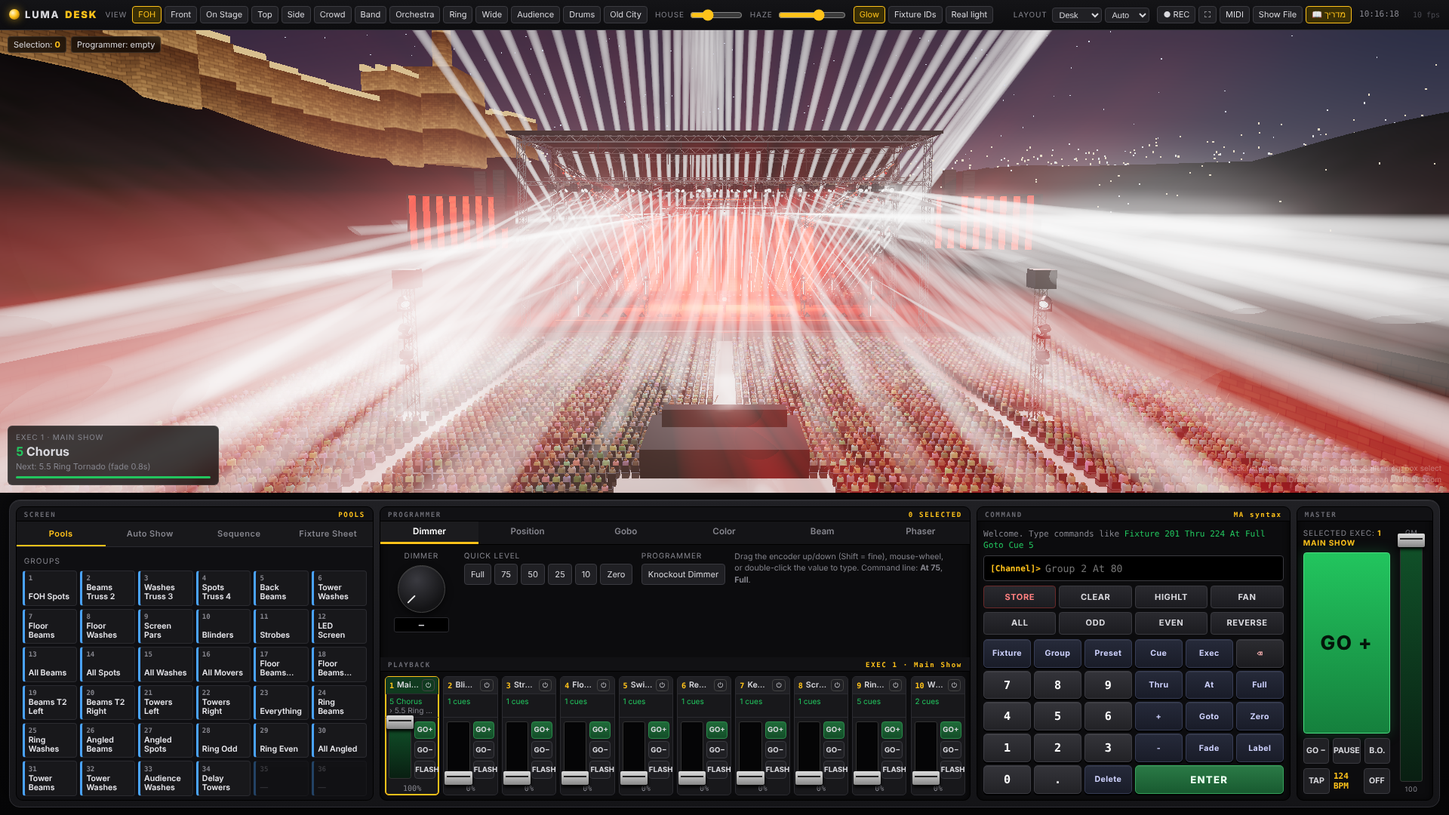
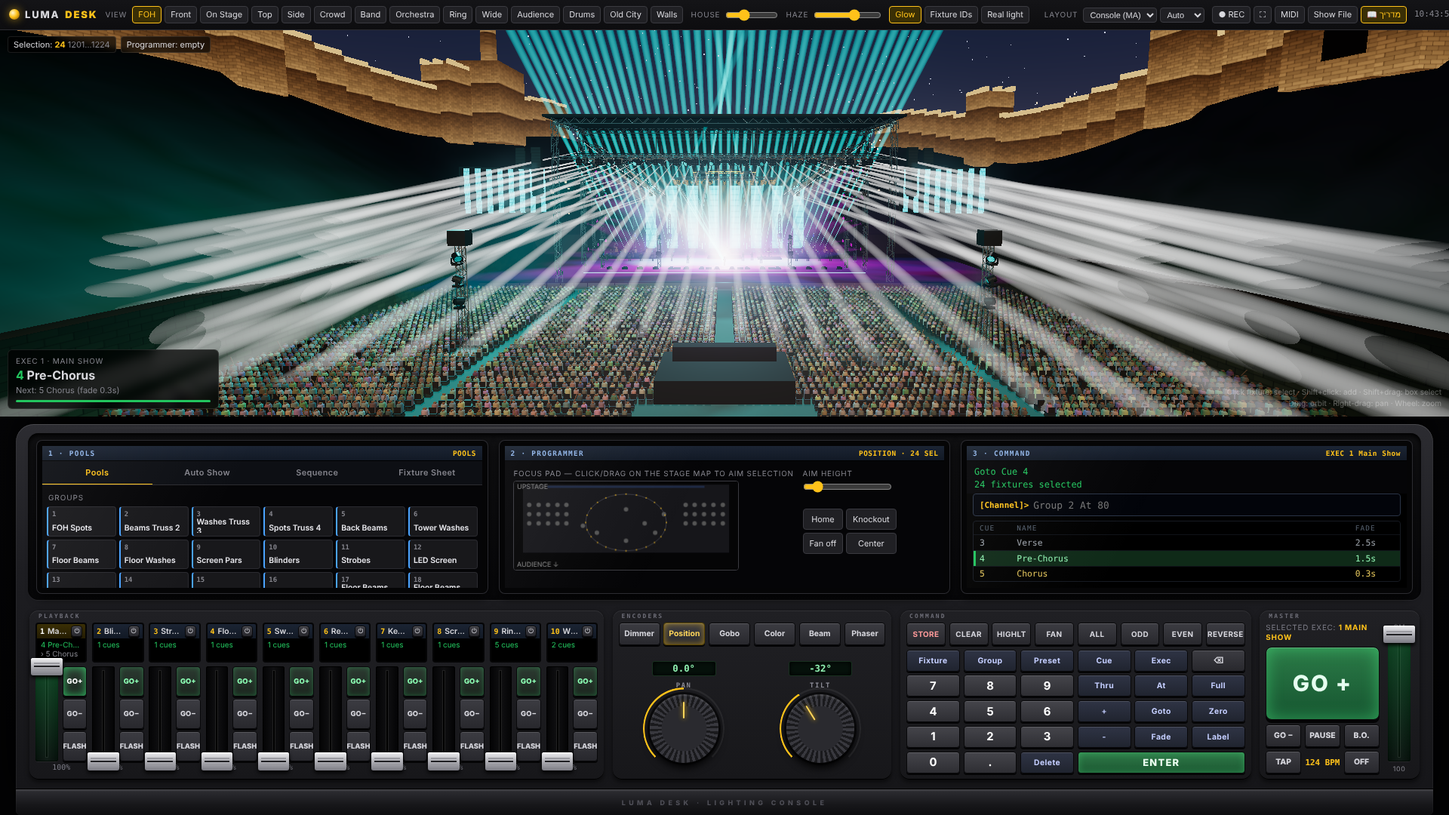
grandMA-style Console layout, Old City walls on both sides
- New default 'Console (MA)' layout: 3-screen bar + physical surface (faders, big encoders, MA keypad, GO/GM), scalable
- Old City walls on the right ridge too, with a gatehouse and a Mount Zion silhouette; 'Walls' camera view
- README hero updated to the console layout

Claude-Session: https://claude.ai/code/session_01XyVV7tLxsAxH9MvZkjuWSr

diff --git a/index.html b/index.html
@@ -213,7 +213,7 @@ canvas.pad{border:1px solid var(--line2);border-radius:4px;cursor:crosshair;touc
 
 
 /* ================= DESK LAYOUT: stage on top, one compact console below ================= */
-body.desk #app{grid-template-rows:40px minmax(0,1fr) auto}
+body.desk #app{grid-template-rows:40px minmax(0,1fr) auto;grid-template-columns:minmax(0,1fr);width:100vw}
 body.desk #main{grid-template-columns:minmax(0,1fr)}
 body.desk #viewer{border-right:0}
 body.desk #desk,body.desk #app>#enc{display:none}
@@ -261,6 +261,103 @@ body.desk .mRow button{padding:9px 0}
 @media (max-width:2100px){#showName{display:none}}
 @media (max-width:1700px){#top .tbg label{display:none}}
 #layoutBox select{background:var(--p3);color:var(--txt);border:1px solid var(--line2);border-radius:4px;padding:2px 4px;font-size:11px}
+
+/* ================= MA CONSOLE LAYOUT: a physical grandMA-style desk under the stage ================= */
+#maConsole{display:none}
+body.ma #app{grid-template-rows:40px minmax(0,1fr) auto;grid-template-columns:minmax(0,1fr);width:100vw}
+body.ma #maConsole{min-width:0;max-width:100vw}
+body.ma .keypad{grid-auto-rows:1fr;align-content:stretch}
+body.ma #kySlot .keys{flex:0 0 auto}
+body.ma #main{grid-template-columns:minmax(0,1fr)}
+body.ma #viewer{border-right:0}
+body.ma #desk,body.ma #app>#enc,body.ma #console{display:none}
+body.ma #maConsole{display:block;background:radial-gradient(120% 140% at 50% 0%,#0a0a0d 0%,#030304 70%);padding:10px 10px 0;overflow:hidden}
+.maDesk{zoom:var(--mz,1);width:1900px;margin:0 auto;position:relative;padding:12px 16px 0;border-radius:24px 24px 6px 6px;
+  background:linear-gradient(#2c2c31 0%,#1d1d21 38%,#151518 100%);box-shadow:0 -24px 60px #000,inset 0 1px 0 #ffffff22,inset 1px 0 0 #ffffff0d,inset -1px 0 0 #ffffff0d}
+.maDesk::before{content:'';position:absolute;left:24px;right:24px;top:4px;height:2px;border-radius:2px;background:linear-gradient(90deg,transparent,#ffffff26,transparent)}
+.maScreens{display:grid;grid-template-columns:repeat(3,minmax(0,1fr));gap:16px;height:224px;padding:10px 12px;border-radius:14px;
+  background:linear-gradient(#111113,#08080a);box-shadow:inset 0 3px 8px #000,0 1px 0 #ffffff12}
+.disp{position:relative;display:flex;flex-direction:column;min-width:0;min-height:0;background:#000;border:8px solid #050506;border-radius:7px;
+  box-shadow:0 0 0 1px #2c2c31,0 6px 14px #000c;overflow:hidden}
+.disp::after{content:'';position:absolute;inset:0;pointer-events:none;background:linear-gradient(118deg,rgba(255,255,255,.055) 0%,rgba(255,255,255,.015) 28%,transparent 42%)}
+.dhead{display:flex;justify-content:space-between;align-items:center;height:20px;padding:0 8px;background:linear-gradient(#1b2433,#121925);border-bottom:1px solid #000;font:700 9.5px var(--mono);letter-spacing:.14em;color:#8fb3e6;flex:0 0 auto}
+.dhead b{color:var(--acc);font-weight:700;letter-spacing:.06em}
+.dslot{flex:1;min-height:0;display:flex;flex-direction:column;overflow:hidden}
+body.ma #side{flex:1;min-height:0;background:#050507}
+body.ma .tabs{background:#0d0f14}
+body.ma .pane{padding:6px}
+body.ma .slot{height:40px}
+body.ma #encExtra{padding:10px 12px;gap:12px;overflow:auto;flex-wrap:wrap;align-content:flex-start;background:#050507;flex:1}
+body.ma #cmdFb{height:auto;flex:0 0 auto;padding:6px 10px 4px;font-size:12px;line-height:17px;color:#9aa0a8;background:#050507}
+body.ma .cmdrow{margin:0 8px;height:30px;border-color:#2a3446;background:#02040a}
+#miniSeq{flex:1;min-height:0;overflow:hidden;margin:6px 8px 8px;border:1px solid #161a22;border-radius:4px;font:11.5px var(--mono)}
+#miniSeq .r{display:grid;grid-template-columns:44px 1fr 52px;gap:6px;padding:3px 8px;border-bottom:1px solid #0f1218;color:#9aa0a8}
+#miniSeq .r.cur{background:#0f2a18;color:#8ff0b0;box-shadow:inset 3px 0 0 var(--go)}
+#miniSeq .r.nx{color:#e3c45a}
+#miniSeq .h{color:#55606e;font-size:9.5px;letter-spacing:.12em}
+.maSurface{display:grid;grid-template-columns:770px minmax(0,1fr) 470px 214px;gap:12px;height:250px;padding:14px 2px 10px}
+.srf{position:relative;display:flex;flex-direction:column;min-width:0;min-height:0;padding:16px 8px 8px;border-radius:12px;
+  background:linear-gradient(#202024,#17171a);box-shadow:inset 0 1px 0 #ffffff14,inset 0 -1px 0 #000,0 3px 6px #0009}
+.slab{position:absolute;left:12px;top:3px;font:700 8px var(--mono);letter-spacing:.28em;color:#6e6e78}
+/* hardware keys */
+body.ma .keys button,body.ma .keypad button,body.ma #featTabs button,body.ma .ex-btns button,body.ma .mRow button,body.ma .ex-off{
+  background:linear-gradient(#3c3c42,#28282d);border:1px solid #08080a;border-radius:4px;color:#d6d6dd;
+  box-shadow:0 2px 0 #040405,inset 0 1px 0 rgba(255,255,255,.15);font-family:Inter,sans-serif}
+body.ma .keys button:active,body.ma .keypad button:active,body.ma .ex-btns button:active,body.ma .mRow button:active{transform:translateY(1px);box-shadow:0 1px 0 #040405,inset 0 1px 0 rgba(255,255,255,.1)}
+body.ma .keys button.on,body.ma #featTabs button.on{color:#ffd65a;box-shadow:0 2px 0 #040405,inset 0 0 10px rgba(255,194,26,.55),inset 0 1px 0 rgba(255,255,255,.18);border-color:#5a4500}
+body.ma .keys .store{color:#ff9a9a}
+body.ma .keys .store.on{background:linear-gradient(#6a1414,#3e0a0a);color:#fff;box-shadow:0 2px 0 #040405,inset 0 0 12px rgba(255,64,64,.7)}
+body.ma .keypad .n{background:linear-gradient(#45454b,#2e2e33);color:#fff}
+body.ma .keypad .w{background:linear-gradient(#2f3445,#20242f);color:#c4ceff}
+body.ma .keypad .en{background:linear-gradient(#2f7c49,#1b5631);color:#eafff0;box-shadow:0 2px 0 #040405,inset 0 0 10px rgba(80,255,140,.35)}
+body.ma .keys{display:grid;grid-template-columns:repeat(8,1fr);gap:5px;margin-bottom:6px}
+body.ma .keys button{height:30px;font-size:10px;font-weight:700;letter-spacing:.04em;padding:0}
+body.ma .keypad{grid-template-columns:repeat(6,1fr);gap:5px;flex:1}
+body.ma .keypad button{min-height:0}
+/* feature keys + big encoders */
+body.ma #featTabs{display:grid;grid-template-columns:repeat(6,1fr);gap:5px;border:0;background:none;margin-bottom:8px}
+body.ma #featTabs button{height:30px;padding:0;text-align:center;font-size:10.5px;font-weight:700;border-left:1px solid #08080a}
+body.ma #featTabs button.has::after{right:4px;top:4px;margin:0;width:5px;height:5px}
+body.ma #encoders{flex:1;display:flex;justify-content:space-around;align-items:center;gap:8px}
+body.ma .encoder{width:auto;gap:7px}
+body.ma .encoder .val{order:-1;background:#06110b;border:1px solid #18301f;color:#8ff0b0;font-size:12.5px;min-width:86px;box-shadow:inset 0 0 8px #000}
+body.ma .encoder .val.p{color:#ff6b6b;border-color:#4a1616;background:#140606}
+body.ma .encoder .lb{font:700 9px var(--mono);letter-spacing:.18em;color:#8a8a94}
+body.ma .knob{width:92px;height:92px;border:0;background:radial-gradient(circle at 50% 50%,#2a2a2f 0 46%,transparent 47%),repeating-conic-gradient(#38383e 0 5deg,#1a1a1d 5deg 10deg);
+  box-shadow:0 6px 12px #000,0 0 0 3px #0c0c0e,inset 0 2px 2px #ffffff22}
+body.ma .knob::before{inset:-9px;-webkit-mask:radial-gradient(circle,transparent 52px,#000 53px);mask:radial-gradient(circle,transparent 52px,#000 53px)}
+body.ma .knob .ind{top:10px;height:22px;transform-origin:1px 36px;background:#ffd65a;box-shadow:0 0 6px #ffc21a}
+/* executors: small displays above real faders */
+body.ma #execs{flex:1;display:grid;grid-template-columns:repeat(10,minmax(0,1fr));gap:7px;padding:0;min-height:0}
+body.ma .ex{background:none;border:0;border-radius:0;overflow:visible}
+body.ma .ex-top,body.ma .ex-cue{background:#000;border:0}
+body.ma .ex-top{border:3px solid #050506;border-bottom:0;border-radius:4px 4px 0 0;padding:2px 4px;background:linear-gradient(#1b2433,#121925)}
+body.ma .ex-cue{border:3px solid #050506;border-top:0;border-radius:0 0 4px 4px;margin-bottom:6px;height:32px}
+body.ma .ex.sel .ex-top{background:linear-gradient(#3a2f05,#241c02)}
+body.ma .ex.sel{box-shadow:none}
+body.ma .ex.sel .ex-num{color:#fff}
+body.ma .ex-off{padding:0 3px;line-height:13px;font-size:9px}
+body.ma .ex-mid{padding:0;gap:6px}
+body.ma .ex-btns button{font-size:9.5px;font-weight:800}
+body.ma .ex-btns .b-go{color:#8dffb5;background:linear-gradient(#2c3a31,#1c261f);box-shadow:0 2px 0 #040405,inset 0 0 8px rgba(60,255,130,.28)}
+body.ma .ex.on .ex-btns .b-go{box-shadow:0 2px 0 #040405,inset 0 0 12px rgba(60,255,130,.7);color:#fff}
+body.ma .ex-btns .b-flash.on{background:#fff;color:#000}
+body.ma .fader{width:30px;border:0;border-radius:3px;background:linear-gradient(90deg,#030304,#101012 50%,#030304);box-shadow:inset 0 0 0 1px #000,0 1px 0 #ffffff10}
+body.ma .fader::before{content:'';position:absolute;left:50%;top:6px;bottom:6px;width:2px;margin-left:-1px;background:#000;box-shadow:0 0 0 1px #222}
+body.ma .fader .ff{background:linear-gradient(#22c55e55,#22c55e10);border-radius:3px}
+body.ma .fader .cap{left:-6px;right:-6px;height:24px;margin-bottom:-12px;border-radius:3px;background:linear-gradient(#f2f2f4,#b4b4ba 45%,#7c7c84);box-shadow:0 3px 5px #000,inset 0 1px 0 #fff}
+body.ma .fader .cap::after{left:4px;right:4px;top:11px;height:2px;background:#202024;box-shadow:0 -4px 0 #9a9aa0,0 4px 0 #9a9aa0}
+body.ma .ex-lvl{color:#7c7c86}
+/* master */
+body.ma #master{flex:1;display:grid;grid-template-columns:1fr 38px;gap:8px;padding:0;border:0}
+body.ma .mGo .sx{color:#7c7c86}
+body.ma #goBig{border-radius:8px;font-size:30px;border:1px solid #0a0a0b;background:linear-gradient(#2b7a47,#165530);color:#e6fff0;box-shadow:0 4px 0 #040405,inset 0 0 22px rgba(80,255,140,.45),inset 0 1px 0 rgba(255,255,255,.25)}
+body.ma #goBig:active{transform:translateY(2px);box-shadow:0 2px 0 #040405,inset 0 0 26px rgba(80,255,140,.6)}
+body.ma .mRow button{padding:7px 0;font-weight:800}
+body.ma #boBtn.on{background:linear-gradient(#6a1414,#3e0a0a);color:#fff}
+body.ma .gm .fader{width:30px}
+.maRest{height:34px;margin:4px -16px 0;border-radius:0 0 6px 6px;background:linear-gradient(#2e2e33,#17171a 60%,#0d0d0f);box-shadow:inset 0 2px 2px #ffffff1c,0 -1px 0 #000;
+  display:flex;align-items:center;justify-content:center;font:800 9px Inter,sans-serif;letter-spacing:.5em;color:#4e4e56}
 /* guide */
 #guide{position:fixed;inset:0;background:#000d;z-index:70;display:none;align-items:center;justify-content:center;backdrop-filter:blur(3px)}
 #guide.show{display:flex}
@@ -330,13 +427,13 @@ body.desk .mRow button{padding:9px 0}
     <div class="brand"><i></i>LUMA<b>DESK</b></div>
     <div class="showname" id="showName">Demo Show — Sultan's Pool, Jerusalem</div>
     <div class="tbg"><label>View</label>
-      <button data-view="foh" class="on">FOH</button><button data-view="front">Front</button><button data-view="stage">On Stage</button><button data-view="top">Top</button><button data-view="side">Side</button><button data-view="crowd">Crowd</button><button data-view="band">Band</button><button data-view="orch">Orchestra</button><button data-view="ring">Ring</button><button data-view="wide">Wide</button><button data-view="aud">Audience</button><button data-view="drums">Drums</button><button data-view="valley">Old City</button>
+      <button data-view="foh" class="on">FOH</button><button data-view="front">Front</button><button data-view="stage">On Stage</button><button data-view="top">Top</button><button data-view="side">Side</button><button data-view="crowd">Crowd</button><button data-view="band">Band</button><button data-view="orch">Orchestra</button><button data-view="ring">Ring</button><button data-view="wide">Wide</button><button data-view="aud">Audience</button><button data-view="drums">Drums</button><button data-view="valley">Old City</button><button data-view="walls">Walls</button>
     </div>
     <div class="tbg"><label>House</label><input type="range" id="house" min="0" max="100" value="30" style="width:70px" title="Audience house lights"></div>
     <div class="tbg"><label>Haze</label><input type="range" id="haze" min="0" max="100" value="62" style="width:90px"></div>
     <div class="tbg"><button id="glowBtn" class="on">Glow</button><button id="idsBtn">Fixture IDs</button><button id="realBtn" class="on" title="Real spot lights & shadows on performers">Real light</button></div>
     <div class="spacer"></div>
-    <div class="tbg" id="layoutBox"><label>Layout</label><select id="layoutSel" title="פריסת מסך"><option value="desk">Desk</option><option value="classic">Classic</option></select><select id="deskZoom" title="גודל הקונסולה"><option value="auto">Auto</option><option value=".85">85%</option><option value="1">100%</option><option value="1.15">115%</option><option value="1.3">130%</option><option value="1.5">150%</option></select></div>
+    <div class="tbg" id="layoutBox"><label>Layout</label><select id="layoutSel" title="פריסת מסך"><option value="ma">Console (MA)</option><option value="desk">Desk</option><option value="classic">Classic</option></select><select id="deskZoom" title="גודל הקונסולה"><option value="auto">Auto</option><option value=".85">85%</option><option value="1">100%</option><option value="1.15">115%</option><option value="1.3">130%</option><option value="1.5">150%</option></select></div>
     <div class="tbg"><button id="recBtn" title="הקלטת וידאו של התצוגה (.webm)">● REC</button><button id="fsBtn" title="מסך מלא (F)">⛶</button><button id="installBtn" style="display:none">⬇ התקן אפליקציה</button><button id="midiBtn">MIDI</button><button id="fileBtn">Show File</button><button id="helpBtn" class="on">📖 מדריך</button></div>
     <div id="clock"></div><div id="fps"></div>
   </header>
@@ -394,6 +491,20 @@ body.desk .mRow button{padding:9px 0}
       <div class="cwing" id="cwCmd"><div class="clabel"><span>COMMAND</span><b>MA syntax</b></div></div>
       <div class="cwing" id="cwMaster"><div class="clabel"><span>MASTER</span></div></div>
     </div>
+  </div></section>
+  <section id="maConsole"><div class="maDesk" id="maBody">
+    <div class="maScreens">
+      <div class="disp"><div class="dhead"><span>1 · POOLS</span><b id="d1info"></b></div><div class="dslot" id="d1s"></div></div>
+      <div class="disp"><div class="dhead"><span>2 · PROGRAMMER</span><b id="d2info"></b></div><div class="dslot" id="d2s"></div></div>
+      <div class="disp"><div class="dhead"><span>3 · COMMAND</span><b id="d3info"></b></div><div class="dslot" id="d3s"><div id="miniSeq"></div></div></div>
+    </div>
+    <div class="maSurface">
+      <div class="srf"><span class="slab">PLAYBACK</span><div id="pbSlot" style="flex:1;display:flex;min-height:0"></div></div>
+      <div class="srf"><span class="slab">ENCODERS</span><div id="ftSlot"></div><div id="ecSlot" style="flex:1;display:flex;min-height:0"></div></div>
+      <div class="srf"><span class="slab">COMMAND</span><div id="kySlot" style="flex:1;display:flex;flex-direction:column;min-height:0"></div></div>
+      <div class="srf"><span class="slab">MASTER</span><div id="msSlot" style="flex:1;display:flex;min-height:0"></div></div>
+    </div>
+    <div class="maRest">LUMA DESK · LIGHTING CONSOLE</div>
   </div></section>
   <footer id="desk">
     <div id="cmdArea">
@@ -510,7 +621,7 @@ function terrH(x, z) {
   const dx = Math.max(Math.abs(x) - VEN.X - 2, 0), dz = Math.max(z - zt, 0) + Math.max(-40 - z, 0) * .8, d = Math.hypot(dx, dz);
   if (d <= 0) return base;
   const nz = (Math.sin(x * .061) + Math.sin(z * .083 + 1.3) + Math.sin((x + z) * .047 + 2)) * 1.6 * Math.min(d / 12, 1);
-  return base + Math.min(d * .55, 24) + (x < 0 ? Math.min(dx * .22, 12) : 0) + nz;
+  return base + Math.min(d * .55, 24) + (x < 0 ? Math.min(dx * .22, 12) : Math.min(dx * .16, 8)) + nz;
 }
 const RING = { x: 0, y: 17, z: -9, R: 9, r2: 5.2, y2: 18.2 };
 for (let i = 0; i < 24; i++) { const a = i / 24 * Math.PI * 2, sa = Math.sin(a), ca = Math.cos(a);
@@ -608,7 +719,7 @@ controls.enableDamping = true; controls.dampingFactor = .08; controls.maxPolarAn
 const VIEWS = {
   foh: { p: [0, 16, 74], t: [0, 9, -8] }, front: { p: [0, 6, 28], t: [0, 10, -10] }, stage: { p: [4, DECK + 1.8, -5], t: [-2, 6, 30] },
   top: { p: [0, 86, -9], t: [0, 0, -9.1] }, side: { p: [62, 13, -8], t: [0, 9, -8] }, crowd: { p: [-5, 2.3, 16], t: [0, 13, -10] },
-  band: { p: [2.5, 5, 10], t: [0, 3, -9] }, ring: { p: [0, DECK + 1.7, 3], t: [0, 17, -9.5] }, wide: { p: [-30, 40, 120], t: [0, 6, -5] }, aud: { p: [0, 15, 1], t: [0, 2, 46] }, drums: { p: [2.2, DECK + 3.2, -5.5], t: [0, DECK + 1, -12.4] }, valley: { p: [55, 34, 98], t: [-30, 8, -10] }, orch: { p: [0, 9, 2], t: [-15.5, 2.4, -12] },
+  band: { p: [2.5, 5, 10], t: [0, 3, -9] }, ring: { p: [0, DECK + 1.7, 3], t: [0, 17, -9.5] }, walls: { p: [0, 30, 96], t: [0, 14, -20] }, wide: { p: [-30, 40, 120], t: [0, 6, -5] }, aud: { p: [0, 15, 1], t: [0, 2, 46] }, drums: { p: [2.2, DECK + 3.2, -5.5], t: [0, DECK + 1, -12.4] }, valley: { p: [55, 34, 98], t: [-30, 8, -10] }, orch: { p: [0, 9, 2], t: [-15.5, 2.4, -12] },
 };
 function setView(v, instant) {
   const V = VIEWS[v]; if (!V) return;
@@ -690,8 +801,9 @@ const box = (w, h, d, mat, x, y, z) => { const m = new THREE.Mesh(new THREE.BoxG
     G.setAttribute('color', new THREE.BufferAttribute(col, 3)); G.computeVertexNormals();
     scene.add(new THREE.Mesh(G, new THREE.MeshStandardMaterial({ vertexColors: true, roughness: 1, flatShading: true }))); }
   // Old City walls along the ridge, with towers, crenellations and the Tower of David citadel — floodlit warm
-  { const pts = [[-58, -95], [-74, -50], [-82, -5], [-84, 40], [-74, 85], [-48, 118]].map(([x, z]) => new V3(x, terrH(x, z), z));
-    const crenG = new THREE.BoxGeometry(.9, 1.3, 2.3), crenM = new THREE.MeshBasicMaterial({ color: 0xc9a46c }), crenXf = [];
+  { const crenG = new THREE.BoxGeometry(.9, 1.3, 2.3), crenM = new THREE.MeshBasicMaterial({ color: 0xc9a46c }), crenXf = [];
+    const WALLS = [[[-58, -95], [-74, -50], [-82, -5], [-84, 40], [-74, 85], [-48, 118]], [[56, -95], [72, -52], [82, -8], [85, 38], [76, 84], [52, 118]]];
+    for (const raw of WALLS) { const pts = raw.map(([x, z]) => new V3(x, terrH(x, z), z));
     for (let i = 0; i < pts.length - 1; i++) { const A = pts[i], B = pts[i + 1], L = Math.hypot(B.x - A.x, B.z - A.z), ang = Math.atan2(B.x - A.x, B.z - A.z);
       const n = Math.ceil(L / 6);
       for (let k = 0; k < n; k++) { const t0 = k / n, t1 = (k + 1) / n, x = lerp(A.x, B.x, (t0 + t1) / 2), z = lerp(A.z, B.z, (t0 + t1) / 2), base = Math.min(terrH(lerp(A.x, B.x, t0), lerp(A.z, B.z, t0)), terrH(lerp(A.x, B.x, t1), lerp(A.z, B.z, t1))) - 3, H = 14;
@@ -699,6 +811,20 @@ const box = (w, h, d, mat, x, y, z) => { const m = new THREE.Mesh(new THREE.BoxG
         for (let c = 0; c < 3; c++) { const tt = lerp(t0, t1, (c + .5) / 3); crenXf.push([lerp(A.x, B.x, tt), base + H + .65, lerp(A.z, B.z, tt), ang]); } }
       if (i > 0) { const H = 20, base = A.y - 3, m = new THREE.Mesh(new THREE.BoxGeometry(8, H, 8), stoneMat(stoneLit, 8, H, true)); m.position.set(A.x, base + H / 2, A.z); m.rotation.y = ang; scene.add(m);
         for (const [dx, dz] of [[-3.4, -3.4], [3.4, -3.4], [-3.4, 3.4], [3.4, 3.4], [0, -3.4], [0, 3.4], [-3.4, 0], [3.4, 0]]) crenXf.push([A.x + dx, base + H + .65, A.z + dz, ang]); } }
+    } // walls
+    // right side: gatehouse with an arched gate facing the venue (Jaffa Gate style)
+    { const gx = 83.5, gz = 15, gb = terrH(gx, gz) - 3, H = 22, gm = new THREE.Mesh(new THREE.BoxGeometry(11, H, 13), stoneMat(stoneLit, 11, H, true)); gm.position.set(gx, gb + H / 2, gz); scene.add(gm);
+      const arch = new THREE.Mesh(new THREE.PlaneGeometry(4.2, 7), new THREE.MeshBasicMaterial({ color: 0x0b0806 })); arch.position.set(gx - 5.52, gb + 3 + 3.5, gz); arch.rotation.y = -Math.PI / 2; scene.add(arch);
+      const top = new THREE.Mesh(new THREE.CircleGeometry(2.1, 20, 0, Math.PI), arch.material); top.position.set(gx - 5.52, gb + 10, gz); top.rotation.y = -Math.PI / 2; scene.add(top);
+      for (const [dx, dz] of [[-5, -6], [-5, -2], [-5, 2], [-5, 6], [5, -6], [5, 6], [0, -6], [0, 6]]) crenXf.push([gx + dx, gb + H + .65, gz + dz, Math.PI / 2]); }
+    // right ridge, behind the wall: round tower with a conical roof + a dark dome (Mount Zion silhouette)
+    { const tx = 104, tz = -28, tb = terrH(tx, tz) - 2, rt = new THREE.Mesh(new THREE.CylinderGeometry(4.2, 4.6, 26, 20), stoneMat(stoneLit, 8, 26, true)); rt.position.set(tx, tb + 13, tz); scene.add(rt);
+      for (let k = 0; k < 4; k++) { const tur = new THREE.Mesh(new THREE.CylinderGeometry(1.1, 1.1, 8, 10), rt.material); tur.position.set(tx + Math.cos(k * 1.57) * 4.4, tb + 22, tz + Math.sin(k * 1.57) * 4.4); scene.add(tur);
+        const cap = new THREE.Mesh(new THREE.ConeGeometry(1.25, 2.6, 10), new THREE.MeshBasicMaterial({ color: 0x2b3238 })); cap.position.set(tur.position.x, tb + 27.3, tur.position.z); scene.add(cap); }
+      const cone = new THREE.Mesh(new THREE.ConeGeometry(4.9, 9, 20), new THREE.MeshBasicMaterial({ color: 0x323b42 })); cone.position.set(tx, tb + 30.5, tz); scene.add(cone);
+      const crossM = new THREE.MeshBasicMaterial({ color: 0xc9a46c }); const c1 = new THREE.Mesh(new THREE.BoxGeometry(.25, 2.2, .25), crossM); c1.position.set(tx, tb + 36, tz); scene.add(c1);
+      const nave = new THREE.Mesh(new THREE.BoxGeometry(22, 12, 14), stoneMat(stoneLit, 22, 12, true)); nave.position.set(tx + 12, tb + 6, tz + 9); scene.add(nave);
+      const dome = new THREE.Mesh(new THREE.SphereGeometry(5.5, 24, 12, 0, Math.PI * 2, 0, Math.PI / 2), new THREE.MeshBasicMaterial({ color: 0x2a3036 })); dome.position.set(tx + 14, tb + 12, tz + 9); scene.add(dome); }
     const im = new THREE.InstancedMesh(crenG, crenM, crenXf.length), m4 = new THREE.Matrix4(), q = new THREE.Quaternion();
     crenXf.forEach(([x, y, z, a], i) => { q.setFromAxisAngle(UP3, a); m4.compose(new V3(x, y, z), q, new V3(1, 1, 1)); im.setMatrixAt(i, m4); }); scene.add(im);
     // Tower of David (citadel + minaret)
@@ -715,7 +841,7 @@ const box = (w, h, d, mat, x, y, z) => { const m = new THREE.Mesh(new THREE.BoxG
   // city lights on the surrounding hills
   { const N = 2600, pos = new Float32Array(N * 3), col = new Float32Array(N * 3); let n = 0;
     for (let i = 0; i < N * 6 && n < N; i++) { const x = (Math.random() - .5) * 440, z = 20 + (Math.random() - .5) * 440;
-      if (Math.abs(x) < VEN.X + 18 && z > -40 && z < VEN.Z1 + VEN.STEPS * VEN.RUN + 14) continue; if (x < -60 && x > -95 && z > -100 && z < 120) continue;
+      if (Math.abs(x) < VEN.X + 18 && z > -40 && z < VEN.Z1 + VEN.STEPS * VEN.RUN + 14) continue; if (Math.abs(x) > 55 && Math.abs(x) < 95 && z > -100 && z < 125) continue; if (x > 95 && x < 135 && z > -45 && z < 0) continue;
       const h = terrH(x, z); pos.set([x, h + 1 + Math.random() * 6, z], n * 3); const w = Math.random(); col.set(w < .7 ? [1, .72, .4] : [.85, .9, 1], n * 3); n++; }
     const g = new THREE.BufferGeometry(); g.setAttribute('position', new THREE.BufferAttribute(pos.slice(0, n * 3), 3)); g.setAttribute('color', new THREE.BufferAttribute(col.slice(0, n * 3), 3));
     scene.add(new THREE.Points(g, new THREE.PointsMaterial({ size: 2.2, sizeAttenuation: false, vertexColors: true, transparent: true, opacity: .85, fog: false }))); }
@@ -2238,7 +2364,7 @@ const GUIDE = [
   <tr><td>הבמה (מרכז)</td><td>תצוגת התלת־ממד. למעלה משמאל: כמה גופים נבחרים ומה יש בפרוגרמר. למטה משמאל: ה־Cue הנוכחי והבא באקזקיוטר הנבחר.</td></tr>
   <tr><td>פאנל ימני</td><td><b>Pools</b> (קבוצות ו־Presets), <b>Auto Show</b>, <b>Sequence</b> (רשימת ה־Cues), <b>Fixture Sheet</b> (טבלת ערכים של כל הגופים).</td></tr>
   <tr><td>שורת אנקודרים</td><td>טאבים לפי תכונה: Dimmer, Position, Gobo, Color, Beam, Phaser. אנקודרים וכלים ייעודיים לכל טאב. נקודה אדומה ליד טאב = יש ערכים בפרוגרמר.</td></tr>
-  <tr><td>פריסה (Layout)</td><td>ברירת המחדל היא <b>Desk</b>: הבמה לכל הרוחב, ומתחתיה קונסולה אחת קומפקטית במרכז, כמו שולחן אמיתי. משמאל SCREEN (Pools, Auto, Sequence), באמצע PROGRAMMER ו־PLAYBACK, מימין COMMAND עם מקלדת מספרים ו־MASTER. הבורר שליד Layout מגדיל או מקטין את הקונסולה (Auto מתאים אותה לרוחב המסך). <b>Classic</b> מחזיר לפריסה הקודמת.</td></tr>
+  <tr><td>פריסה (Layout)</td><td>ברירת המחדל היא <b>Console (MA)</b>: קונסולה פיזית בסגנון grandMA מתחת לבמה, עם 3 מסכים למעלה (1 Pools, 2 Programmer, 3 Command ורשימת ה־Cues), ומשטח עם פיידרים, גלגלי אנקודר גדולים, מקלדת ו־GO. <b>Desk</b>: הבמה לכל הרוחב, ומתחתיה קונסולה אחת קומפקטית במרכז, כמו שולחן אמיתי. משמאל SCREEN (Pools, Auto, Sequence), באמצע PROGRAMMER ו־PLAYBACK, מימין COMMAND עם מקלדת מספרים ו־MASTER. הבורר שליד Layout מגדיל או מקטין את הקונסולה (Auto מתאים אותה לרוחב המסך). <b>Classic</b> מחזיר לפריסה הקודמת.</td></tr>
   <tr><td>שולחן (למטה)</td><td>שורת פקודה ומקשים (STORE, CLEAR…), 10 אקזקיוטרים עם פיידרים, ומצד שמאל: GO הגדול, GO−, PAUSE, B.O., TAP, OFF ופיידר GM.</td></tr></table>
   <h3>שליטה במצלמה</h3><ul><li>גרירה עם הכפתור השמאלי: סיבוב סביב הבמה.</li><li>גרירה עם הכפתור הימני: הזזה.</li><li>גלגלת: זום.</li><li>כפתורי זווית למעלה מחזירים לנקודות קבועות.</li></ul>` },
  { t: 'בחירת גופים', h: () => `
@@ -2407,11 +2533,26 @@ function kpPress(t) {
   if (/^[0-9.]$/.test(t)) { cmd.value = (/[0-9.]$/.test(v) ? v : (v && !v.endsWith(' ') ? v + ' ' : v)) + t; return; }
   cmd.value = (v && !v.endsWith(' ') ? v + ' ' : v) + t + ' ';
 }
-let deskMode = 'desk', deskZoom = 'auto';
+let deskMode = 'ma', deskZoom = 'auto';
+const PARTS = { featTabs: $('#featTabs'), encBody: $('#encBody'), encoders: $('#encoders'), encExtra: $('#encExtra'), cmdFb: $('#cmdFb'), cmdrow: $('.cmdrow'), keys: $('.keys') };
+function restoreParts() {
+  const P = PARTS; P.encBody.append(P.encoders, P.encExtra); $('#enc').append(P.featTabs, P.encBody);
+  $('#cmdArea').prepend(P.cmdFb, P.cmdrow, P.keys);
+}
 function applyLayout() {
-  const desk = deskMode === 'desk';
-  document.body.classList.toggle('desk', desk);
-  if (desk) {
+  restoreParts();
+  const desk = deskMode === 'desk', ma = deskMode === 'ma';
+  document.body.classList.toggle('desk', desk); document.body.classList.toggle('ma', ma);
+  if (ma) {
+    if (!keypad) buildKeypad();
+    $('#d1s').appendChild($('#side'));
+    $('#d2s').appendChild(PARTS.encExtra);
+    $('#d3s').prepend(PARTS.cmdFb, PARTS.cmdrow);
+    $('#pbSlot').appendChild($('#execs')); $('#execs').style.flex = '1';
+    $('#ftSlot').appendChild(PARTS.featTabs); $('#ecSlot').appendChild(PARTS.encoders);
+    $('#kySlot').append(PARTS.keys, keypad);
+    $('#msSlot').appendChild($('#master'));
+  } else if (desk) {
     $('#cwScreen').appendChild($('#side'));
     $('#encSlot').appendChild($('#enc'));
     $('#execSlot').appendChild($('#execs')); $('#execs').style.flex = '1';
@@ -2425,23 +2566,34 @@ function applyLayout() {
     $('#desk').appendChild($('#master'));
   }
   fitDesk(); resize();
-  try { localStorage.setItem('lumadesk-layout', JSON.stringify({ deskMode, deskZoom })); } catch (e) { }
+  try { localStorage.setItem('lumadesk-layout2', JSON.stringify({ deskMode, deskZoom })); } catch (e) { }
 }
 function fitDesk() {
   const z = deskZoom === 'auto' ? clamp((innerWidth - 24) / 1880, .66, 1.05) : +deskZoom;
   $('#cbody').style.setProperty('--dz', z.toFixed(3));
+  const zm = deskZoom === 'auto' ? clamp((innerWidth - 24) / 1920, .55, 1.05) : +deskZoom;
+  $('#maBody').style.setProperty('--mz', zm.toFixed(3));
 }
 $('#layoutSel').onchange = ev => { deskMode = ev.target.value; applyLayout(); };
-$('#deskZoom').onchange = ev => { deskZoom = ev.target.value; fitDesk(); resize(); try { localStorage.setItem('lumadesk-layout', JSON.stringify({ deskMode, deskZoom })); } catch (e) { } };
-addEventListener('resize', () => { if (deskMode === 'desk') { fitDesk(); } });
+$('#deskZoom').onchange = ev => { deskZoom = ev.target.value; fitDesk(); resize(); try { localStorage.setItem('lumadesk-layout2', JSON.stringify({ deskMode, deskZoom })); } catch (e) { } };
+addEventListener('resize', () => { if (deskMode !== 'classic') fitDesk(); });
 // clear key clears a half-typed command line first (like MA); STORE pre-types "Store"
 { const kc = $('#kClear'); const old = kc.onclick; kc.onclick = () => { if (cmd.value.trim()) { cmd.value = ''; return; } old(); }; }
 setInterval(() => {
+  if (deskMode === 'ma') {
+    const e = execs[selExec], F = FEATS.find(f => f[0] === feat);
+    $('#d1info').textContent = (sideTab || '').toUpperCase(); $('#d2info').textContent = `${F ? F[1].toUpperCase() : ''} · ${sel.length} SEL`;
+    $('#d3info').textContent = `EXEC ${selExec + 1} ${e.name || ''}`;
+    const ms = $('#miniSeq'); let h = `<div class="r h"><span>CUE</span><span>NAME</span><span>FADE</span></div>`;
+    if (!e.cues.length) h += `<div class="r"><span></span><span>no cues</span><span></span></div>`;
+    const st = Math.max(0, e.cur - 1); e.cues.slice(st, st + 6).forEach((c, k) => { const i = st + k; h += `<div class="r ${i === e.cur ? 'cur' : (e.on && i === (e.cur + 1) % e.cues.length) ? 'nx' : ''}"><span>${c.num}</span><span>${c.name}</span><span>${c.fade}s</span></div>`; });
+    ms.innerHTML = h; return;
+  }
   if (deskMode !== 'desk') return;
   const e = execs[selExec]; $('#cwPbInfo').textContent = `EXEC ${selExec + 1} · ${e.name || 'empty'}`;
   $('#cwProgInfo').textContent = `${sel.length} SELECTED`; $('#cwScreenInfo').textContent = (sideTab || '').toUpperCase();
 }, 250);
-try { const L = JSON.parse(localStorage.getItem('lumadesk-layout') || 'null'); if (L) { deskMode = L.deskMode || 'desk'; deskZoom = L.deskZoom || 'auto'; } } catch (e) { }
+try { const L = JSON.parse(localStorage.getItem('lumadesk-layout2') || 'null'); if (L) { deskMode = L.deskMode || 'ma'; deskZoom = L.deskZoom || 'auto'; } } catch (e) { }
 $('#layoutSel').value = deskMode; $('#deskZoom').value = deskZoom;
 applyLayout();
 

diff --git a/sw.js b/sw.js
@@ -1,5 +1,5 @@
 // LUMA DESK service worker — offline app shell, stale-while-revalidate for everything else.
-const CACHE = 'luma-desk-v11';
+const CACHE = 'luma-desk-v12';
 const SHELL = [
   './', './index.html', './manifest.webmanifest',
   './icons/icon-192.png', './icons/icon-512.png', './icons/maskable-512.png', './icons/apple-touch-icon.png', './icons/favicon.png',

diff --git a/README.md b/README.md
@@ -24,13 +24,15 @@ No install and no build step. Works offline once loaded, and can be installed as
 | **Circular truss "tornado"**: 24 beams on a ring, twisted with a Circle phaser and 360° phase spread. | **The drop**: strobes, blinders, sunburst ring and fanned beams across the whole rig. |
 | ![Audience view](docs/screenshots/audience.png) | ![Sultan's Pool and the Old City walls](docs/screenshots/old-city.png) |
 | **The crowd gets lit**: every beam that lands in the audience colors the people under it. | **Sultan's Pool**: seated crowd, stone terraces, and the floodlit Old City walls with the Tower of David. |
-| ![Band and drum kit](docs/screenshots/band.png) | ![30-piece orchestra](docs/screenshots/orchestra.png) |
-| **8-piece band** with a full drum kit on the riser. | **30-piece orchestra** on three tiers of risers. |
+| ![Old City walls on both sides](docs/screenshots/old-city-walls.png) | ![Band and drum kit](docs/screenshots/band.png) |
+| **Jerusalem's walls on both sides** of the valley, with a gate on the right and the Tower of David on the left. | **8-piece band** with a full drum kit on the riser. |
+| ![30-piece orchestra](docs/screenshots/orchestra.png) | ![30-piece orchestra](docs/screenshots/orchestra.png) | |
+| **30-piece orchestra** on three tiers of risers. | |
 
 ## Features
 
 ### 🎛 Console (grandMA workflow)
-- **Desk layout** (the default): the stage fills the screen and one compact console sits centered beneath it, like a real desk. **SCREEN** (pools, Auto Show, sequence) is on the left, **PROGRAMMER** and **PLAYBACK** in the middle, and **COMMAND** (MA-style keypad: `Group 2 4 At Full Enter`) and **MASTER** (GO, GM, B.O., TAP) on the right. Everything is in reach, even on a 4K monitor. The console size can be scaled (Auto, or 85% to 150%), and a **Classic** layout is still available.
+- **Console (MA) layout** (the default): a physical grandMA-style desk under the stage. It has a bar of three screens (1 Pools / Auto / Sequence, 2 Programmer tools, 3 Command line + cue list) above a control surface with metal-cap faders and lit executor keys, large encoder wheels with value displays, a hardware MA keypad (`Group 2 4 At Full ENTER`), and a GO/Grand Master section. It scales to any screen, so everything stays in reach even on a 4K monitor. The **Desk** (compact flat) and **Classic** layouts are also available.
 - **Command line** in MA syntax: `Fixture 201 Thru 230`, `Group 24 + Group 31`, `At Full`, `Store Cue 5 Fade 3`, `Goto Cue 3`, `Preset 4.10`, `Label Cue 5 Chorus`, `Delete Cue 4`, `Off Exec 2`.
 - **Programmer** with feature tabs (Dimmer, Position, Gobo, Color, Beam, Phaser), drag encoders, and programmer values shown in red.
 - **Pools**: 36 groups and presets for Dimmer, Position, Gobo, Color and Beam. Position presets are calculated per fixture: Singer, Drums, Orchestra, Fan Audience, Ring Cone, Ring Twist, Sunburst, Crown and more.
